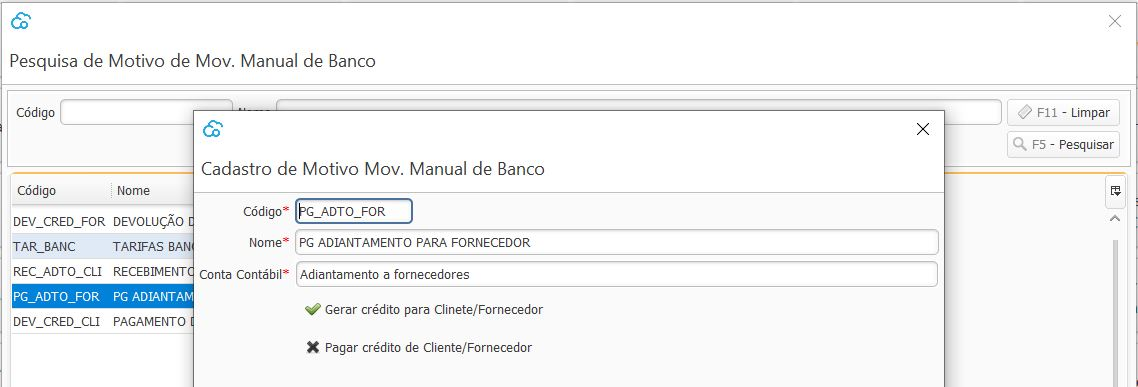
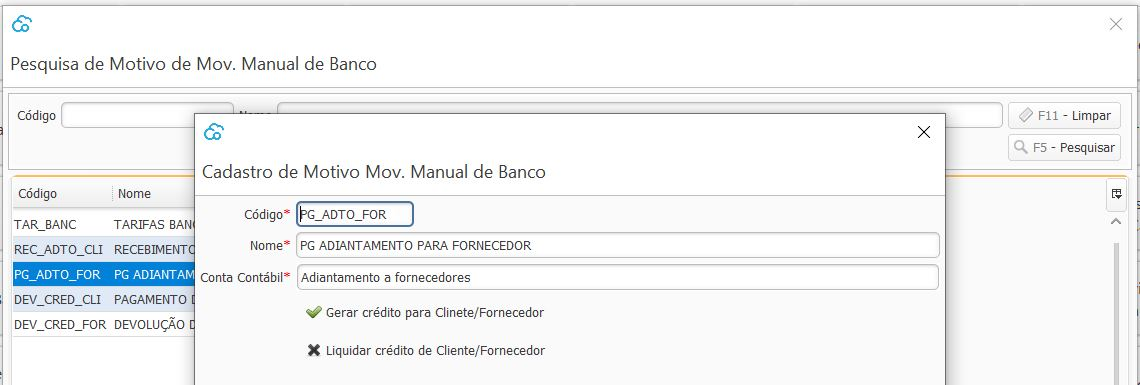
estoque

diff --git a/docs/ajustes_fiscal.md b/docs/ajustes_fiscal.md
@@ -1,18 +1,76 @@
 ## Ajustes Fiscal
 
-As parametrizações fiscais devem ser feitas para cada empresa cadastrada. 
+As parametrizações fiscais devem ser feitas para cada empresa cadastrada e estão divididas em:
 
-Estão divididas em:
 
-[NFe](ajustes_fiscal_nfe.md)
 
-[NFCe](ajustes_fiscal_nfce.md)
+#### Ajustes Fiscal - NFe
 
-[Geral](ajustes_fiscal_geral.md)
+`Série` deve ser preenchido para as empresa emitentes de [NF-e](nfe.md).
 
-[Tabela IBPT](ajustes_fiscal_tabelaibpt.md)
+`Alíquota Crédito SN` deve ser preenchido com a alíquota para as empresas do [SImples Nacional](simples_nacional.md) que permitem crédito de ICMS.
 
-![](images/ajustes_fiscal.jpg)
+`Período para cancelamento` deve ser preenchido com o período que a empresa deseja permitir fazer o cancelamento de NF-e, deve ser igual ou menor ao período permitido pelo [SEFAZ](sefaz.md).
+
+`Texto Fiscal Padrão` deve ser preenchido com algum [Texto fiscal](texto_fiscal.md), tipo [Fisco](texto_fiscal_fisco.md) que será impresso em todas as NF-e emitidas. Parâmetro não obrigatório.
+
+
+
+![](images/ajustes_fiscal_nfe.jpg)
+
+
+
+
+
+#### Ajustes Fiscal - NFCe
+
+`Série` deve ser preenchido para as empresa emitentes de [NFC-e](nfce.md)
+
+`CSC Token`  O Código de Segurança do Contribuinte (CSC) token é um código de segurança alfanumérico (uma senha), de conhecimento exclusivo do contribuinte e da [SEFAZ](sefaz.md)  usado para garantir a autoria e a autenticidade do DANFE NFC-e. 
+
+Na maioria dos casos, é obtido pelo site da Sefaz do estado, separando entre ambiente de homologação e de produção. 
+
+- **Paraná (PR):** 
+
+Para o estado no PR está disponível no [Portal RECEITA/PR](https://receita.pr.gov.br/login), em Serviço: Menu DF-e /NFC-e / CSC / Controle.
+
+`CSC ID Token` O Código de Segurança do Contribuinte (CSC) ID é um código complementar ao Token e deve ser obtido juntamente com o Token.
+
+`Período para cancelamento` deve ser preenchido com o período que a empresa deseja permitir fazer o cancelamento de NFC-e, deve ser igual ou menor ao período permitido pela SEFAZ.
+
+
+
+![](images/ajustes_fiscal_nfce.jpg)
+
+
+
+
+
+#### Ajustes Fiscal - Geral
+
+`Certificado Digital`
+
+`Documento Fiscal Padrão` o tipo parametrizado será utilizado como padrão no cadastro dos Clientes, podendo, se necessário, fazer a alteração em cada cliente.
+
+`Texto Fiscal Impostos Aproximados` deve ser preenchido com algum [Texto fiscal](texto_fiscal.md), tipo [Complementar](texto_fiscal_complementar.md) e será impresso em todas as NF-e em operações com consumidor final e em todas as NFC-e. 
+
+Esse texto fiscal deverá ser parametrizado com as [variáveis](texto_fiscal_variavel.md) que farão o cálculo dos impostos aproximados de acordo com as alíquotas da [Tabela IBPT](ajustes_fiscal_tabela_ibpt.md).
+
+
+
+![](images/ajustes_fiscal_geral.jpg)
+
+
+
+
+
+#### Ajustes Fiscal - Tabela IBPT
+
+
+
+![](images/ajustes_fiscal_tabelaibpt.jpg)
+
+
 
 
 

diff --git a/docs/financeiro_motivo_movimentacao_manual.md b/docs/financeiro_motivo_movimentacao_manual.md
@@ -10,15 +10,15 @@ Cada motivo deve ser amarrado há uma conta contábil e essa conta é usada no l
 
 #### Gerar crédito para Cliente/Fornecedor
 
-Essa opção deve ser marcada quando a movimentação irá gerar um crédito para o Clliente ou Fornecedor.
+Essa opção deve ser marcada quando a movimentação irá gerar um Crédito para o Cliente ou Fornecedor.
 
 Como por exemplo, quando um cliente faz um pagamento antecipado ou quando é feito um pagamento antecipado para um fornecedor. 
 
 #### Liquidar crédito de Cliente/Fornecedor
 
-Essa opção deve ser marcada quando a movimentação irá liquidar um crédito já existente do Cliente ou Fornecedor.
+Essa opção deve ser marcada quando a movimentação for liquidar um crédito já existente do Cliente ou Fornecedor.
 
-Como por exemplo,  se for pago uma devolução de Cliente, ou se ao fornecedor devolveu o dinheiro da antecipação.
+Como por exemplo,  se for pago uma devolução de Cliente, ou se o fornecedor devolveu o dinheiro da antecipação.
 
 [Voltar](financeiro.md)
 

diff --git a/docs/estoque.md b/docs/estoque.md
@@ -1,0 +1,29 @@
+### Estoque
+
+Neste menu são encontrados todos os acessos necessários para as atividade de cadastro manutenção e gerenciamento de produtos.
+
+
+
+Estão disponíveis as opções:
+
+[Ajuste de Estoque]()
+
+[Consulta de Saldo]()
+
+[Grupo e Subgrupos]()
+
+[Liberação de Produto]()
+
+[Marca]()
+
+[Motivo Movimentação Manual]()
+
+[Movimentação Manual]()
+
+[Produto]()
+
+[Volumes]()
+
+
+
+[Voltar](index.md)

diff --git a/docs/estoque_ajuste_estoque.md b/docs/estoque_ajuste_estoque.md
@@ -1,0 +1,2 @@
+[Voltar](estoque.md)
+

diff --git a/docs/estoque_cosulta_saldo.md b/docs/estoque_cosulta_saldo.md
@@ -1,0 +1,2 @@
+[Voltar](estoque.md)
+

diff --git a/docs/estoque_grupo_subgrupo.md b/docs/estoque_grupo_subgrupo.md
@@ -1,0 +1,2 @@
+[Voltar](estoque.md)
+

diff --git a/docs/estoque_liberacao_produto.md b/docs/estoque_liberacao_produto.md
@@ -1,0 +1,2 @@
+[Voltar](estoque.md)
+

diff --git a/docs/estoque_marca.md b/docs/estoque_marca.md
@@ -1,0 +1,2 @@
+[Voltar](estoque.md)
+

diff --git a/docs/estoque_motivo_movimentacao_manual.md b/docs/estoque_motivo_movimentacao_manual.md
@@ -1,0 +1,2 @@
+[Voltar](estoque.md)
+

diff --git a/docs/estoque_movimentacao_manual.md b/docs/estoque_movimentacao_manual.md
@@ -1,0 +1,2 @@
+[Voltar](estoque.md)
+

diff --git a/docs/estoque_produto.md b/docs/estoque_produto.md
@@ -1,0 +1,2 @@
+[Voltar](estoque.md)
+

diff --git a/docs/estoque_volume.md b/docs/estoque_volume.md
@@ -1,0 +1,2 @@
+[Voltar](estoque.md)
+
